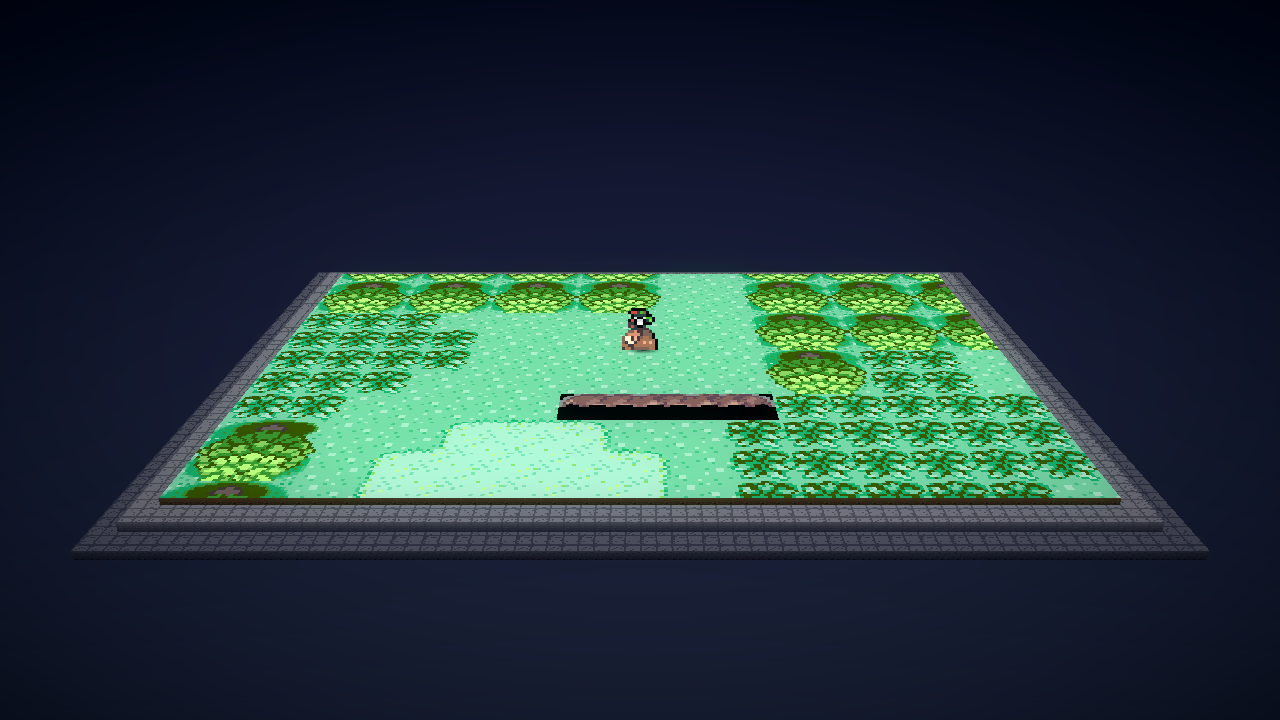
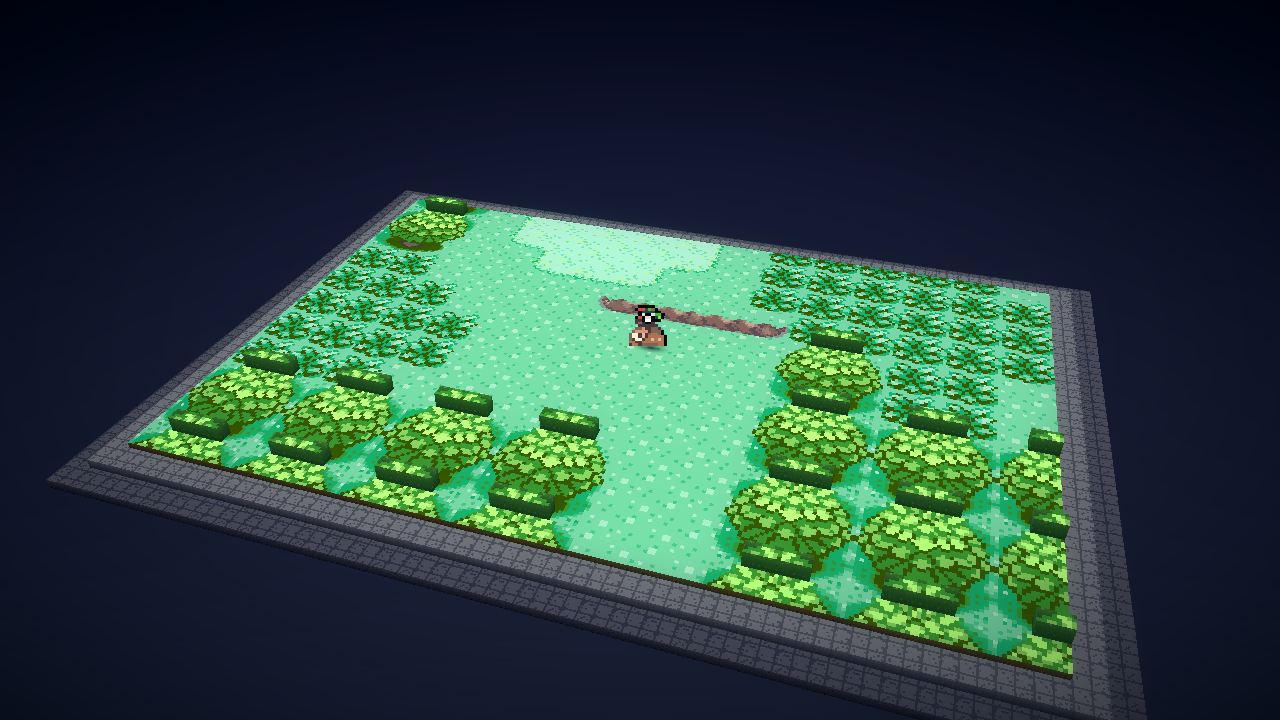
Add atlas coverage and fix real-ground compositing

diff --git a/gba_diorama/dump.py b/gba_diorama/dump.py
@@ -253,6 +253,43 @@ def _extract_obj_sprites(dump: GbaDump, width: int, height: int, scale: float) -
     return sprites
 
 
+def _composite_behind(
+    dump: GbaDump, ground_index: int, ground: np.ndarray
+) -> np.ndarray:
+    """Fill transparent holes in the ground with layers behind it.
+
+    Route 101's BG2 ground has a transparent rectangle where a ledge lives on
+    BG3.  Extruding BG2 alone leaves a black hole; compositing the backdrop
+    layers into the ground keeps the ledge and closes the mesh.
+    """
+
+    height, width = ground.shape[:2]
+    background = np.zeros((height, width, 4), dtype=np.float32)
+    background_alpha = np.zeros((height, width, 1), dtype=np.float32)
+    # Composite farthest-to-nearest so the ground can sit on top of the result.
+    for index in range(3, ground_index, -1):
+        image = dump.layers.get(index)
+        if image is None or image.shape != ground.shape:
+            continue
+        alpha = image[..., 3:4].astype(np.float32) / 255.0
+        background[..., :3] = (
+            image[..., :3] * alpha + background[..., :3] * (1.0 - alpha)
+        )
+        background_alpha = alpha + background_alpha * (1.0 - alpha)
+        background[..., 3:4] = background_alpha * 255.0
+
+    ground_alpha = ground[..., 3:4].astype(np.float32) / 255.0
+    out = np.empty((height, width, 4), dtype=np.float32)
+    out[..., :3] = (
+        ground[..., :3] * ground_alpha
+        + background[..., :3] * (1.0 - ground_alpha)
+    )
+    out[..., 3:4] = (
+        ground_alpha + background_alpha * (1.0 - ground_alpha)
+    ) * 255.0
+    return np.clip(out, 0, 255).astype(np.uint8)
+
+
 @dataclass
 class DumpWorld:
     """Minimal SyntheticWorld-compatible adapter for a decoded dump.
@@ -317,7 +354,7 @@ class DumpWorld:
                 key=score,
             )
 
-        ground = dump.layers[ground_index]
+        ground = _composite_behind(dump, ground_index, dump.layers[ground_index])
         h, w = ground.shape[:2]
         if h % 8 or w % 8:
             raise ValueError(f"BG{ground_index} size {w}x{h} is not tile-aligned")
@@ -396,8 +433,10 @@ class DumpWorld:
                 )
 
         sprites = _extract_obj_sprites(dump, w, h, 512.0 / max(w, h))
+        layers = dict(dump.layers)
+        layers[ground_index] = ground
         return cls(
-            layers=dump.layers,
+            layers=layers,
             terrain_height=terrain,
             ground_side_material=ground_side,
             layer_present=present,

diff --git a/gba_diorama/atlas.py b/gba_diorama/atlas.py
@@ -24,6 +24,14 @@ class AtlasResult:
     frames: int
     origin: tuple[int, int]
     layer_bounds: dict[int, tuple[int, int, int, int]]
+    coverage: dict[int, np.ndarray]
+
+    @property
+    def coverage_ratio(self) -> dict[int, float]:
+        return {
+            index: float(mask.mean()) if mask.size else 0.0
+            for index, mask in self.coverage.items()
+        }
 
 
 def _layer_offset(dump: GbaDump, index: int) -> tuple[int, int]:
@@ -94,12 +102,24 @@ def stitch_dumps(
         height = max(height, int(atlas_size[1]))
 
     canvases: dict[int, np.ndarray] = {}
+    coverages: dict[int, np.ndarray] = {}
     bounds: dict[int, tuple[int, int, int, int]] = {}
     for index, items in placements.items():
         canvas = np.zeros((height, width, 4), dtype=np.uint8)
+        coverage = np.zeros((height, width), dtype=bool)
         for x, y, image in items:
-            _blend_into(canvas, image, x - min_x, y - min_y)
+            ox = x - min_x
+            oy = y - min_y
+            _blend_into(canvas, image, ox, oy)
+            image_h, image_w = image.shape[:2]
+            x0 = max(0, ox)
+            y0 = max(0, oy)
+            x1 = min(width, ox + image_w)
+            y1 = min(height, oy + image_h)
+            if x1 > x0 and y1 > y0:
+                coverage[y0:y1, x0:x1] = True
         canvases[index] = canvas
+        coverages[index] = coverage
         bounds[index] = (
             min(x for x, _, _ in items) - min_x,
             min(y for _, y, _ in items) - min_y,
@@ -113,6 +133,10 @@ def stitch_dumps(
         "frames": len(dumps),
         "origin": [min_x, min_y],
         "layers": sorted(canvases),
+        "coverage": {
+            str(index): round(float(mask.mean()), 6)
+            for index, mask in coverages.items()
+        },
     }
     # A stitched atlas is already in world coordinates; keep the profile
     # signature stable but clear per-frame scroll values.
@@ -140,6 +164,7 @@ def stitch_dumps(
         frames=len(dumps),
         origin=(min_x, min_y),
         layer_bounds=bounds,
+        coverage=coverages,
     )
 
 

diff --git a/tests/test_dump.py b/tests/test_dump.py
@@ -5,6 +5,7 @@ import numpy as np
 from gba_diorama.dump import DumpWorld, GbaDump, export_synthetic_dump, load_dump
 from gba_diorama.inspect import main as inspect_main
 from gba_diorama.mesh import scene_extent
+from gba_diorama.profiles import LayerProfile, SceneProfile
 from gba_diorama.synthetic import build_synthetic_world
 
 
@@ -112,6 +113,22 @@ def test_sparse_overlay_skip_is_opt_in():
     width, depth = scene_extent(DumpWorld.from_dump(dump))
     assert width == 512.0
     assert abs(depth - 512.0 * 64 / 96) < 1e-4
+
+
+def test_ground_composites_layers_behind_it():
+    h = w = 16
+    background = np.full((h, w, 4), (90, 50, 30, 255), dtype=np.uint8)
+    ground = np.full((h, w, 4), (40, 150, 70, 255), dtype=np.uint8)
+    ground[:8, :8, 3] = 0  # transparent hole, as on Route 101's ledge
+    profile = SceneProfile("test", (LayerProfile(2, role="ground"),))
+
+    adapted = DumpWorld.from_dump(
+        _fake_dump({2: ground, 3: background}), profile=profile
+    )
+
+    assert adapted.ground_layer == 2
+    assert tuple(adapted.layers[2][0, 0]) == (90, 50, 30, 255)
+    assert tuple(adapted.layers[2][12, 12]) == (40, 150, 70, 255)
 
 
 def test_obj_sprite_is_cropped_from_oam():

diff --git a/tests/test_atlas.py b/tests/test_atlas.py
@@ -36,9 +36,25 @@ def test_stitch_places_layers_at_scroll_offsets():
     assert result.frames == 2
     assert result.origin == (0, 0)
     assert result.layer_bounds[2] == (0, 0, 6, 4)
+    assert result.coverage[2].all()
     assert tuple(atlas[0, 0]) == (255, 0, 0, 255)
     assert tuple(atlas[0, 2]) == (0, 255, 0, 255)
     assert tuple(atlas[0, 5]) == (0, 255, 0, 255)
+
+
+def test_coverage_mask_records_observed_regions():
+    red = _dump((255, 0, 0, 255), offset=0, size=2)
+    green = _dump((0, 255, 0, 255), offset=4, size=2)
+
+    result = stitch_dumps([red, green], layer_indices=(2,))
+
+    coverage = result.coverage[2]
+    assert coverage.shape == (2, 6)
+    assert coverage[:, :2].all()
+    assert not coverage[:, 2:4].any()
+    assert coverage[:, 4:].all()
+    assert result.coverage_ratio[2] == pytest.approx(8 / 12)
+    assert result.dump.meta["atlas"]["coverage"]["2"] == pytest.approx(8 / 12)
 
 
 def test_atlas_size_can_expand_canvas():

diff --git a/AGENTS.md b/AGENTS.md
@@ -71,20 +71,22 @@ Dependencies: Python 3.10+, `numpy`, `pillow`; tests use `pytest`.
   signatures, and CLI (`--dump`, `--atlas`, `--all-layers`, `--force-3d`,
   `--profile`).
 - `atlas.py`: offline E1 scaffold; stitches BG layers from several dumps at
-  their scroll offsets into a larger canvas. No coverage mask or VRAM
-  invalidation yet.
+  their scroll offsets into a larger canvas and records per-layer coverage.
+  VRAM invalidation and automatic sequence capture are still missing.
 - `tools/run-mgba-diorama.sh`: desktop-GL mGBA launcher (2× scale, muted).
 - `profiles/emerald-route101.toml`: example profile matching the real Route 101
-  signature (BG2 ground, BG3 backdrop ignored, BG1 canopy deferred).
-- `tests/`: 31 tests covering decode, dump round-trip, profiles, atlas
-  stitching, mesh, render, post, fallback, determinism.
+  signature (BG2 ground, BG3 backdrop ignored, BG1 canopy at a naive constant
+  height).
+- `tests/`: 33 tests covering decode, dump round-trip, profiles, atlas
+  stitching/coverage, ground compositing, mesh, render, post, fallback,
+  determinism.
 
 ## Next tasks (in order)
 
-1. **World atlas coverage + sequence capture.** `atlas.py` stitches offline
-   dumps, but it needs a coverage mask, VRAM-change invalidation, and an mGBA
-   sequence mode before it can replace the sparse-overlay skip. Then implement
-   E2 parallax depth with a confidence value.
+1. **World atlas sequence capture + invalidation.** `atlas.py` stitches
+   offline dumps and records coverage, but it needs VRAM-change invalidation
+   and an mGBA sequence mode before it can replace the sparse-overlay skip.
+   Then implement E2 parallax depth with a confidence value.
 2. **Profile discovery/debug UI.** Auto-load a profile directory, show the
    current signature and chosen profile, and add a hotkey/overlay to cycle layer
    roles and heights. Camera overrides (`distance`, `pitch_deg`, `yaw_deg`) are

diff --git a/README.md b/README.md
@@ -18,10 +18,13 @@ The first real result comes from an mGBA dump of Pokémon Emerald's Route 101:
 ![Emerald Route 101 as a 3D2D diorama](docs/images/emerald-route101.png)
 
 The dump loader picked BG2 as the ground from layer content (BG3 is a
-low-detail backdrop in this scene), cropped the player out of the OBJ layer,
-and rendered it as a billboard on a tilted plinth. Sparse foreground layers are
-skipped by default until height inference can separate tree canopies from
-buildings; `--all-layers` shows the naive extrusion.
+low-detail backdrop in this scene), composited the backdrop into transparent
+holes, cropped the player out of the OBJ layer, and rendered it as a billboard
+on a tilted plinth. The example profile opts into a naive constant-height
+extrusion of the sparse BG1 canopy; generic renders still skip sparse overlays
+until height inference can separate tree canopies from buildings, and
+`--all-layers` shows the unprofiled version. This image was re-rendered after
+fixing the BG/OBJ vertical flip.
 
 The layers are decoded independently before meshing, which is the part that
 makes a 3D2D composite possible:
@@ -169,9 +172,10 @@ positions:
 python -m gba_diorama --atlas dumps/route-a dumps/route-b --out /tmp/atlas.png
 ```
 
-The atlas is still offline and does not yet track a coverage mask or invalidate
-regions when VRAM changes. Those are the next steps before it can replace the
-temporary sparse-overlay skip.
+The atlas is still offline. It records a per-layer coverage mask, but does not
+yet invalidate regions when VRAM changes or capture a sequence automatically;
+those are the next steps before it can replace the temporary sparse-overlay
+skip.
 
 ## What works
 

diff --git a/docs/DESIGN.md b/docs/DESIGN.md
@@ -142,8 +142,9 @@ materials; a real integration will infer them.
 ### 5.3 World atlas (prototype)
 
 `atlas.py` implements the offline half: it places each BG layer at its scroll
-offset in a larger canvas and composites overlapping dumps. The persistent
-in-emulator version still needs a coverage mask and invalidation.
+offset in a larger canvas, composites overlapping dumps, and records a
+per-layer coverage mask. The persistent in-emulator version still needs VRAM
+invalidation and sequence capture.
 
 mGBA's BG textures are screen-space (240×160). A tilted camera exposes their
 edges. The fix is a persistent **world atlas**:

diff --git a/docs/EXPERIMENTS.md b/docs/EXPERIMENTS.md
@@ -30,8 +30,8 @@ atlas so a tilted camera does not expose missing pixels?
 every frame in some effects.
 
 **Status:** prototype. `atlas.py` stitches offline dumps at their scroll
-offsets and alpha-composites overlaps; a coverage mask, VRAM invalidation, and
-mGBA sequence capture are still missing.
+offsets, alpha-composites overlaps, and records a per-layer coverage mask;
+VRAM invalidation and mGBA sequence capture are still missing.
 
 ## E2 — Auto-depth from parallax
 
